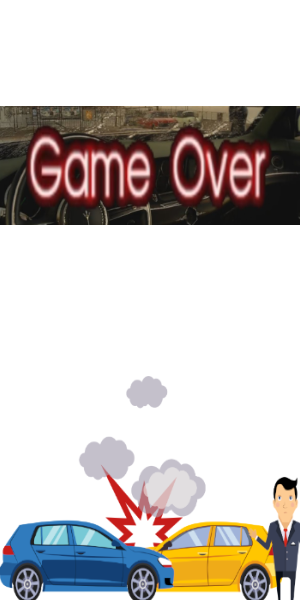
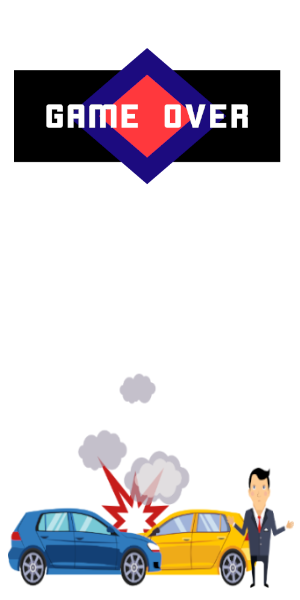
Trying to display in mobile frame

diff --git a/JavaScript/Assignment 4/src/style.css b/JavaScript/Assignment 4/src/style.css
@@ -42,8 +42,3 @@ body{
 .car.lane-right {
   left: 225px;
 }
-
-.middle{
-  border-right: 5px dashed ivory;
-  border-left: 5px dashed ivory
-}
